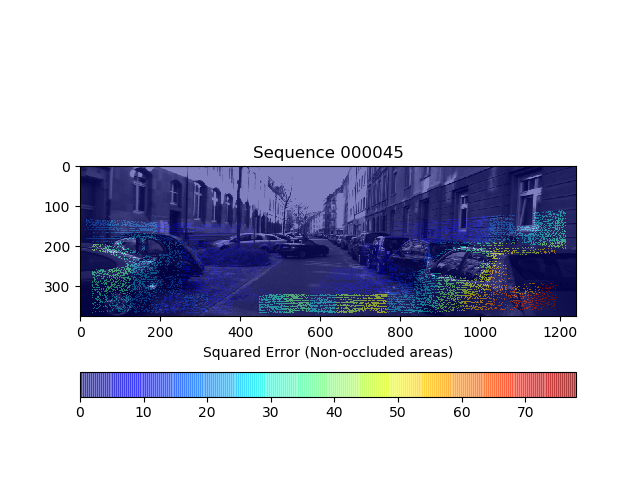
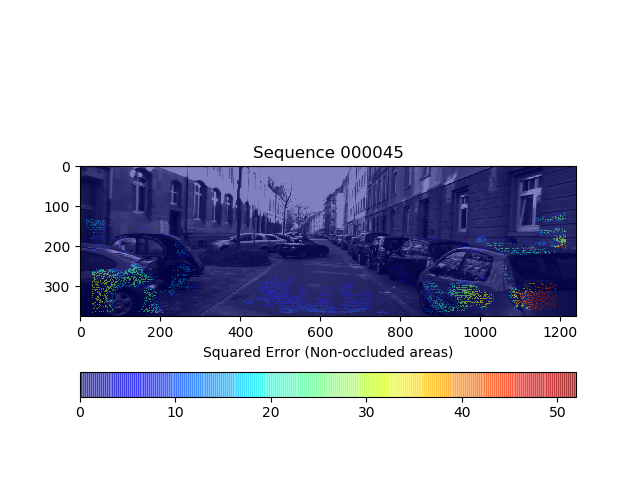
opencv Farneback opticalflow implementation

diff --git a/week4_optical_flow.py b/week4_optical_flow.py
@@ -85,6 +85,49 @@ def optical_flow(cf):
                         output_path = os.path.join(cf.output_folder, '{}_ebma_optimization.pkl'.format(cf.dataset_name))
                         with open(output_path, 'w') as fd:
                             pickle.dump(optimization_results, fd)
+            elif(cf.sota_opt_flow):
+                if cf.sota_opt_flow_option == 'opencv':
+                    dense_optical_flow = of.opencv_optflow(
+                        ref_img_data, search_img_data, cf.block_size)
+                    # Evaluate the optical flow
+                    if cf.evaluate:
+                        optical_flow_gt = cv.imread(gt_list[0], cv.IMREAD_UNCHANGED)
+
+                        msen, pepn, squared_errors, pixel_errors, valid_pixels = of_metrics.flow_errors_MSEN_PEPN(
+                            dense_optical_flow, optical_flow_gt
+                        )
+                        logger.info('Mean Squared Error: {}'.format(msen))
+                        logger.info('Percentage of Erroneous Pixels: {}'.format(pepn))
+                        '''
+                        if cf.plot_prediction:
+                            output_path = os.path.join(cf.output_folder, 'optical_flow_prediction_{}.png'.format(
+                                cf.image_sequence
+                            ))
+                            plt.imshow(predicted_image, cmap='gray')
+                            plt.show(block=False)
+                            plt.savefig(output_path)
+                            plt.close()
+                        '''
+                        # Histogram
+                        visualization.plot_histogram_msen(msen, np.ravel(squared_errors[valid_pixels]), cf.image_sequence,
+                                                          cf.output_folder)
+                        # Image
+                        visualization.plot_msen_image(image_list[1], squared_errors, pixel_errors, valid_pixels,
+                                                      cf.image_sequence, cf.output_folder)
+
+                    if cf.plot_optical_flow:
+                        # Quiver plot
+                        output_path = os.path.join(cf.output_folder, 'optical_flow_{}.png'.format(cf.image_sequence))
+                        im = cv.imread(image_list[1], cv.IMREAD_GRAYSCALE)
+                        visualization.plot_optical_flow(im, dense_optical_flow, cf.optical_flow_downsample,
+                                                        cf.image_sequence, output_path, is_ndarray=True)
+
+                        # HSV plot
+                        output_path = os.path.join(cf.output_folder, 'optical_flow_hsv_{}.png'.format(cf.image_sequence))
+                        visualization.plot_optical_flow_hsv(im, dense_optical_flow, cf.image_sequence, output_path,
+                                                            is_ndarray=True)
+
+                    logger.info(' ---> Finish test: ' + cf.test_name + ' <---')
 
             else:
                 # Run Task 1: Block Matching Algorithm

diff --git a/config/kitti_flow.py b/config/kitti_flow.py
@@ -5,17 +5,19 @@ gt_path                      = 'datasets/kitti/flow_noc'        # Ground truth p
 results_path                 = 'datasets/kitti/results'
 
 # Input Images
-image_sequence              = '000157'              # '000045' or '000157']
+image_sequence              = '000045'              # '000045' or '000157']
 image_type                   = 'png'                        # Input image type
 
 # Block Matching Optical Flow
-compensation                = 'backward'  # 'forward' instead
-block_size                  = 4
+compensation                = 'forward'  # 'forward' instead
+block_size                  = 15
 search_area                 = 64          # Search area must be bigger than block size
 dfd_norm_type               = 'l1'        # One of: 'l1', 'l2'
-optimize_block_matching     = True        # Whether to optimize parameters of block matching or not
+optimize_block_matching     = False        # Whether to optimize parameters of block matching or not
 block_size_range            = [4, 8, 16, 32, 64]
 search_area_range           = [4, 8, 16, 32, 64]
+sota_opt_flow               = True
+sota_opt_flow_option        = 'opencv'
 
 # Evaluate Optical Flow
 evaluate                     = True

diff --git a/tools/optical_flow.py b/tools/optical_flow.py
@@ -5,6 +5,7 @@ import logging
 
 import numpy as np
 import time
+import cv2 as cv
 
 import sys
 import tqdm
@@ -132,3 +133,17 @@ def exhaustive_search_block_matching(reference_img, search_img, block_size=16, m
         dense_optical_flow = dense_optical_flow
 
     return predicted_frame, optical_flow, dense_optical_flow, total_time
+
+def opencv_optflow(ref_img_data, search_img_data, block_size):
+    farneback_params = {
+        'pyr_scale': 0.5,
+        'levels': 3,
+        'winsize': block_size,
+        'iterations': 3,
+        'poly_n': 5,
+        'poly_sigma': 1.2,
+        'flags': cv.OPTFLOW_USE_INITIAL_FLOW
+    }
+    dense_flow = cv.calcOpticalFlowFarneback(ref_img_data, search_img_data, **farneback_params)
+
+    return dense_flow

diff --git a/tools/visualization.py b/tools/visualization.py
@@ -218,6 +218,7 @@ def plot_optical_flow_hsv(img_path, vector_field_path, sequence_name, output_pat
     else:
         img = img_path
         optical_flow = vector_field_path
+
     hsv = np.zeros((img.shape[0], img.shape[1], 3), dtype=np.uint8)
     hsv[:, :, 1] = 255
     magnitude, angle = cv.cartToPolar((optical_flow[:, :, 0]),(optical_flow[:, :, 1]))
